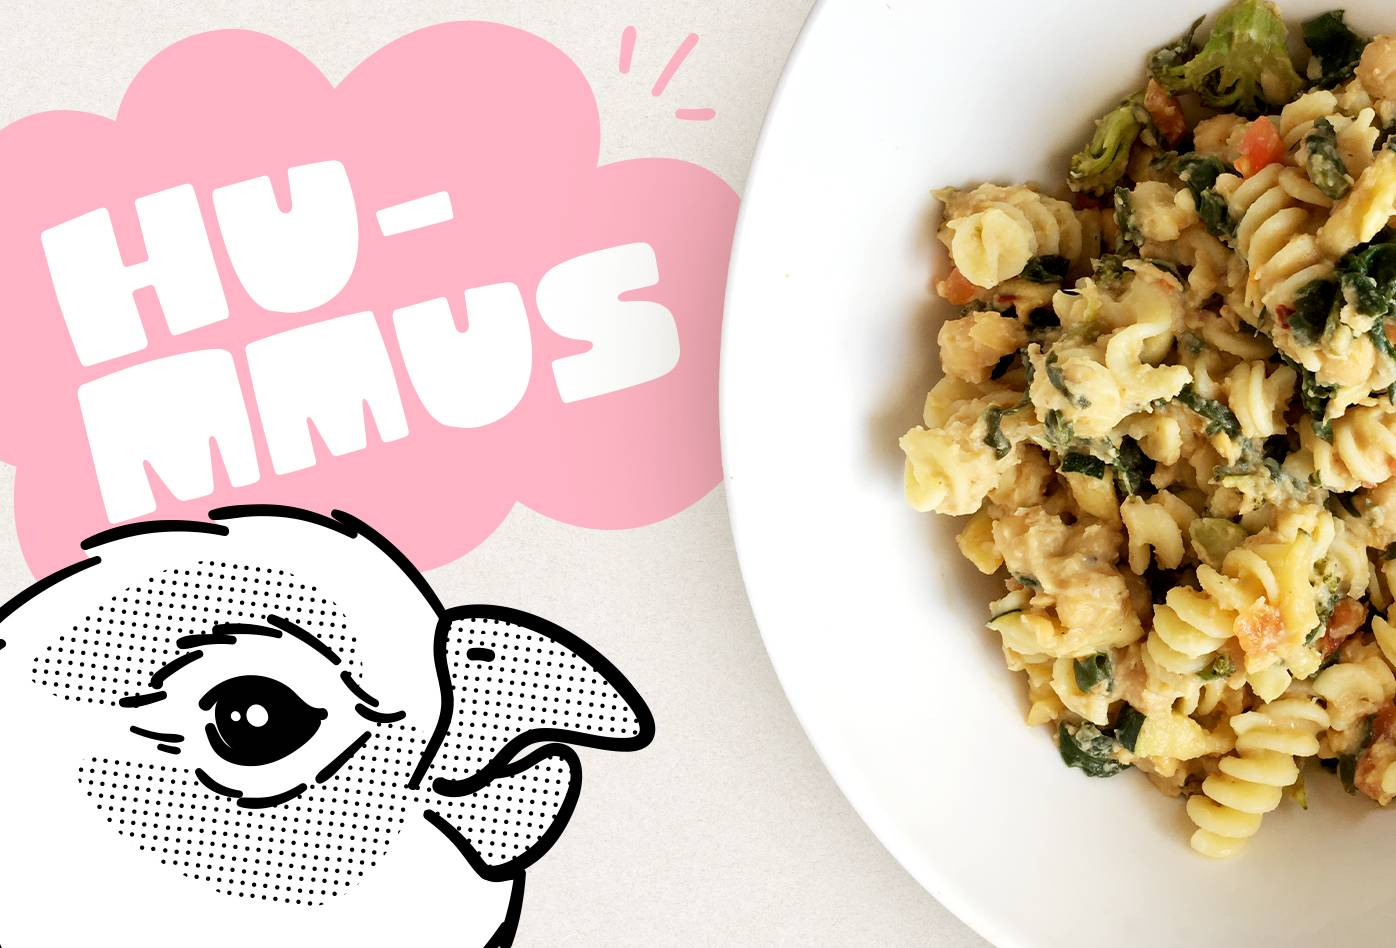
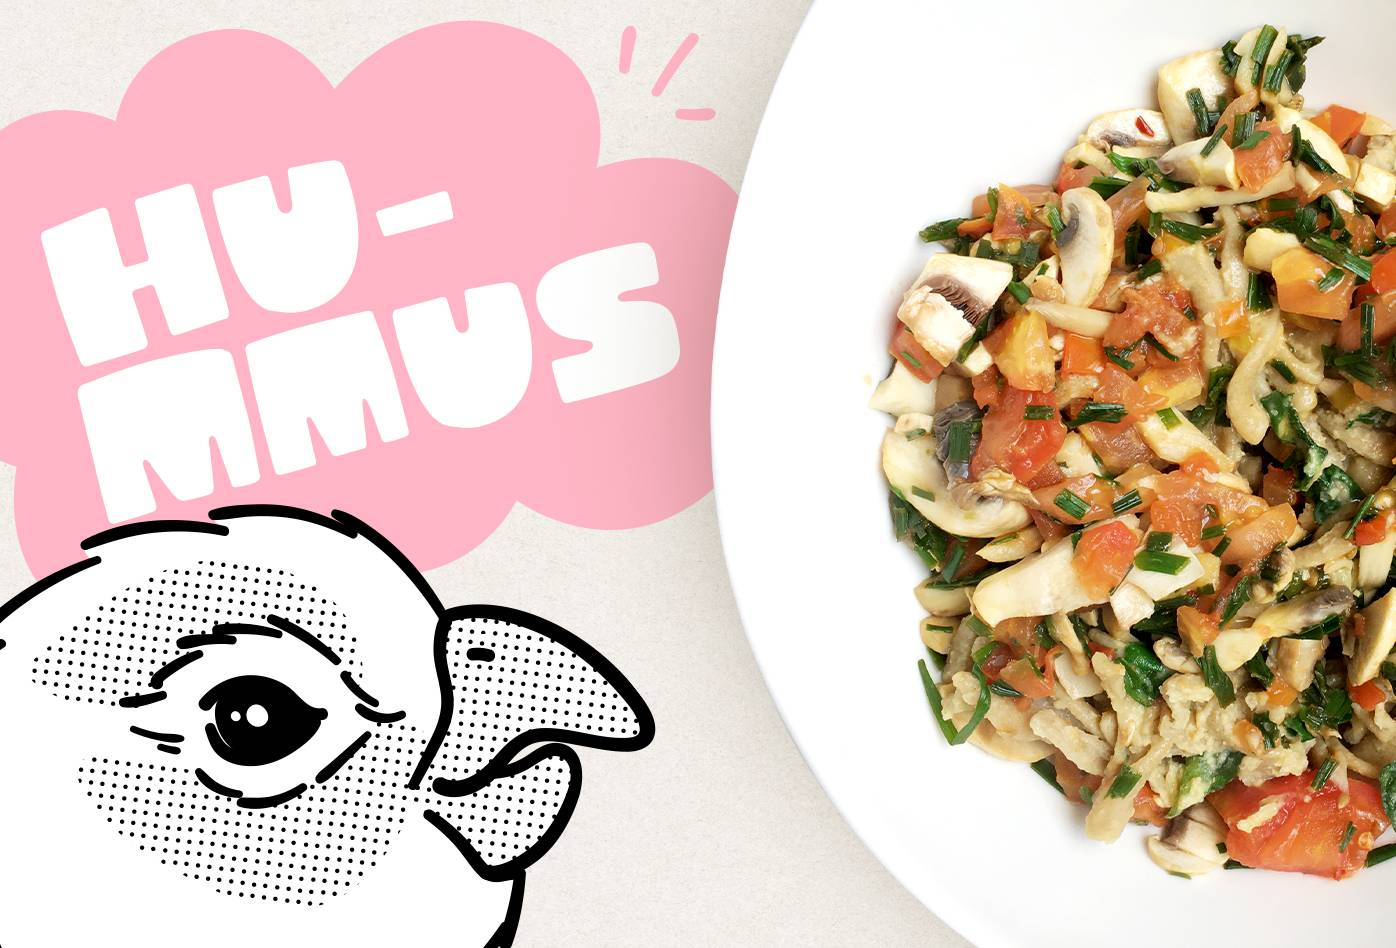
pasta and hummus update

diff --git a/_posts/2021-01-05-article-recipe-pasta-con-hummus.md b/_posts/2021-01-05-article-recipe-pasta-con-hummus.md
@@ -35,7 +35,7 @@ date: 2021-01-05
   <li>Tomate cherry o tomate normal picado en cuadritos</li>
   <li>Cebollín</li>
   <li>Espinaca</li>
-  <li>Brócoli (Opcional)</li>
+  <li>Champiñones</li>
   <li>Pimienta roja (Opcional)</li>
 </ul>
 
@@ -61,11 +61,12 @@ date: 2021-01-05
 
 <p class="post-content-p post-content-space">Agregar al procesador o licuadora los garbanzos, el tahine, los ajos y el jugo de un limón, licuar los garbanzos agregando lentamente agua de garbanzos hasta que se forme un puré. En licuadora generalmente es necesario parar, revolver con una cuchara grande y volver a licuar. <span class="icon icon-warning"></span> Nunca meter la cuchara con la licuadora prendida.</p>
 
-<h4>Espinaca y Brócoli</h4>
+<h4>Espinaca</h4>
 
-<p class="post-content-p post-content-space">Cortar la espinaca en tiritas y picar el brócoli. Hervir agua en una olla y agregar la espinaca y el brócoli a una vaporera o un colador de metal para que los vegetales no toquen el agua. Tapar y dejar al vapor durante cinco minutos.</p>
+<p class="post-content-p post-content-space">Cortar la espinaca en tiritas. Hervir agua en una olla y agregar la espinaca a una vaporera o un colador de metal para que no toque el agua. Tapar y dejar al vapor durante cinco minutos.</p>
 
-<p class="post-content-p post-content-space">Después de cocinar al vapor, agregar a una sartén caliente, agregar el tomate y el cebollín picado finamente, agregar pimienta roja y saltear durante cinco minutos.</p>
+<h4>Cebollín, tomate y champiñones</h4>
+<p class="post-content-p post-content-space">Picar finamente el cebollín, picar el tomate y los champiñones en cuadritos y saltear en una sartén caliente durante unos tres minutos.</p>
 
 <h4>Pasta</h4>
 
@@ -73,4 +74,4 @@ date: 2021-01-05
 
 <h4>Pasta con hummus</h4>
 
-<p class="post-content-p post-content-space">Servir la pasta, revolver con hummus y los vegetales seleccionados. Acompañar con una bebida y una fruta dulce.</p>
+<p class="post-content-p post-content-space">Revolver el hummus y la espinaca con la pasta, servir y agregar el cebollín, tomate y champiñones salteados. Acompañar con una bebida y una fruta dulce.</p>
